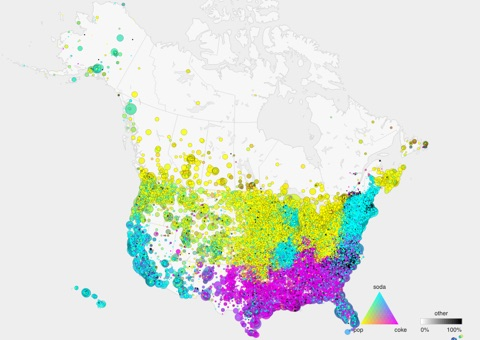
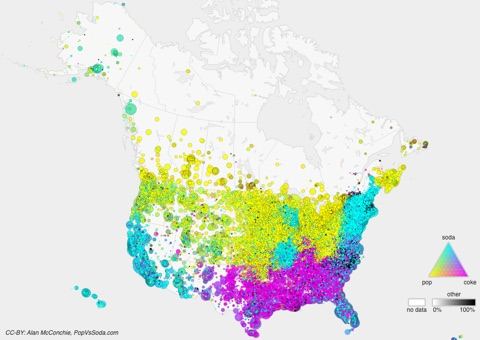
Mixed-color legend placed exactly like the choropleth's
The Voronoi, bubbles (mixed colors), ZIP circles and choropleth
experiment maps now draw the homepage choropleth's legend: the same
triangle, "no data" swatch and "other" ramp, at the same place and
size, as an overlay in map units (common.js: mixKeyHTML, showMixKey).
Thumbnails retaken.

Claude-Session: https://claude.ai/code/session_01JpWq1jKXNV9syim92nfxii

Changed region(s): [[0.75, 0.8235, 1.0, 1.0], [0.875, 0.6765, 1.0, 0.8529], [0.0, 0.9706, 0.25, 1.0]]

diff --git a/experiments/common.js b/experiments/common.js
@@ -327,25 +327,14 @@ window.PVS = (function () {
 		return { setRegion };
 	}
 
-	// Put the triangle legend in the bottom-right corner of a map (open water
-	// in every frame), or hide it.
-	function showMixKey(chart, show = true, opts) {
-		let el = chart.querySelector(".map-key");
-		if (!el) {
-			el = document.createElement("div");
-			el.className = "map-key";
-			el.innerHTML = mixKeyHTML(opts);
-			chart.append(el);
-		}
-		el.hidden = !show;
-	}
-
-	// Key for the mixed colors: the main map's triangle legend (soda at the
-	// top, pop bottom left, coke bottom right, blends in between), a ramp for
-	// how much "other" darkens a color, and optionally a "no data" swatch.
-	function mixKeyHTML({ noData = false } = {}) {
+	// The mixed-color legend, drawn exactly as on the homepage choropleth
+	// (js/map.js buildLegend): the triangle, the "no data" swatch and the
+	// "other" ramp in the bottom-right corner, laid out in the choropleth's
+	// 800 × 500 units and scaled into FRAME the same way. It's an overlay in
+	// map units, so it lines up with the choropleth when switching tabs.
+	function mixKeyHTML() {
 		const DIV = 10, side = 64, h = (side * Math.sqrt(3)) / 2;
-		const top = [42, 16];
+		const top = [748, 372];
 		const corner = { soda: top, pop: [top[0] - side / 2, top[1] + h], coke: [top[0] + side / 2, top[1] + h] };
 		const at = (i, j) => ({ soda: (DIV - i) / DIV, pop: (i - j) / DIV, coke: j / DIV });
 		const xy = (q) => ["soda", "pop", "coke"].reduce(
@@ -353,8 +342,7 @@ window.PVS = (function () {
 		const cell = (pts) => {
 			const c = { pop: 0, soda: 0, coke: 0, other: 0 };
 			for (const q of pts) for (const t of ["pop", "soda", "coke"]) c[t] += q[t] / 3;
-			const d = "M" + pts.map((q) => xy(q).map((v) => v.toFixed(1)).join(",")).join("L") + "Z";
-			return `<path d="${d}" fill="${mix(c)}" stroke="${mix(c)}" stroke-width="0.3"/>`;
+			return `<path d="M${pts.map((q) => xy(q).join(",")).join("L")}Z" fill="${mix(c)}"/>`;
 		};
 		let cells = "";
 		for (let i = 0; i < DIV; i++) {
@@ -363,31 +351,42 @@ window.PVS = (function () {
 				if (j < i) cells += cell([at(i, j), at(i, j + 1), at(i + 1, j + 1)]);
 			}
 		}
-		const base = top[1] + h;
-		const label = (x, y, text, anchor = "middle") =>
-			`<text x="${x}" y="${y}" text-anchor="${anchor}">${text}</text>`;
+		const text = (x, y, str, anchor = "middle") => `<text x="${x}" y="${y}" text-anchor="${anchor}">${str}</text>`;
+		const halo = (attrs) => `<${attrs} class="halo"/>`;
 
-		// "other" ramp, white to black, as on the main map.
-		const rx = 112, rw = 70, rh = 10, ry = base - rh, STEPS = 20;
+		const STEPS = 20, rampX = 722, rampY = 466, rampW = 70, rampH = 10;
 		let ramp = "";
 		for (let k = 0; k <= STEPS; k++) {
-			const o = k / STEPS;
-			ramp += `<rect x="${(rx + (k * rw) / (STEPS + 1)).toFixed(1)}" y="${ry}" width="${(rw / (STEPS + 1) + 0.5).toFixed(1)}" height="${rh}" fill="${d3.interpolateRgb("white", "black")(o)}"/>`;
+			ramp += `<rect x="${rampX + (k * rampW) / (STEPS + 1)}" y="${rampY}" width="${rampW / (STEPS + 1) + 0.5}" ` +
+				`height="${rampH}" fill="${d3.interpolateRgb("white", "black")(k / STEPS)}"/>`;
 		}
-		const nd = noData
-			? `<rect x="204" y="${ry}" width="26" height="${rh}" fill="#fff" stroke="#bbb" stroke-width="0.5"/>` + label(217, base + 13, "no data")
-			: "";
-		const width = noData ? 240 : 196;
-		const height = Math.ceil(base + 17);
-		// Sized like the main map's legend: 1.2 × these units in a FRAME-wide map.
-		return `<svg class="mix-key" viewBox="0 0 ${width} ${height}" ` +
-			`style="width:${((width * 1.2) / FRAME.width) * 100}%" role="img" ` +
-			`aria-label="Color key: yellow for pop, cyan for soda, magenta for coke, blended where answers are split, darker with more other answers">` +
-			`<g stroke="none">${cells}</g>` +
-			label(top[0], top[1] - 5, "soda") + label(corner.pop[0] - 4, base + 13, "pop") + label(corner.coke[0] + 4, base + 13, "coke") +
-			ramp + `<rect x="${rx}" y="${ry}" width="${rw}" height="${rh}" fill="none" stroke="#bbb" stroke-width="0.5"/>` +
-			label(rx + rw / 2, ry - 5, "other") + label(rx, base + 13, "0%", "start") + label(rx + rw, base + 13, "100%", "end") +
-			nd + "</svg>";
+
+		return `<svg class="mix-key" viewBox="0 0 ${FRAME.width} ${FRAME.height}" role="img" ` +
+			`aria-label="Color key: yellow for pop, cyan for soda, magenta for coke, blended where answers are split, ` +
+			`darker with more other answers, white for no data">` +
+			`<g transform="translate(0,40) scale(1.2)">` +
+			halo(`path d="M${[corner.soda, corner.pop, corner.coke].join("L")}Z"`) + cells +
+			text(corner.soda[0], corner.soda[1] - 6, "soda") +
+			text(corner.pop[0] - 4, corner.pop[1] + 13, "pop") + text(corner.coke[0] + 4, corner.coke[1] + 13, "coke") +
+			halo(`rect x="${rampX}" y="${rampY}" width="${rampW}" height="${rampH}"`) + ramp +
+			text(rampX, rampY + 21, "0%", "start") + text(rampX + rampW, rampY + 21, "100%", "end") +
+			text(rampX + rampW / 2, rampY - 5, "other") +
+			halo(`rect x="682" y="${rampY}" width="26" height="${rampH}"`) +
+			`<rect x="682" y="${rampY}" width="26" height="${rampH}" fill="#fff"/>` +
+			text(695, rampY + 21, "no data") +
+			"</g></svg>";
+	}
+
+	// Show the mixed-color legend on a map, or hide it.
+	function showMixKey(chart, show = true) {
+		let el = chart.querySelector(".map-key-frame");
+		if (!el) {
+			el = document.createElement("div");
+			el.className = "map-key-frame";
+			el.innerHTML = mixKeyHTML();
+			chart.append(el);
+		}
+		el.hidden = !show;
 	}
 
 	// Swelling state outlines for the bubble maps. Each state starts as its own

diff --git a/experiments/choropleth.html b/experiments/choropleth.html
@@ -4,8 +4,8 @@
 	<meta charset="utf-8">
 	<meta name="viewport" content="width=device-width, initial-scale=1">
 	<title>Pop vs Soda Choropleth</title>
-	<link href="../css/style.css?v=2026-11-23x" rel="stylesheet">
-	<link href="experiments.css?v=2026-11-23x" rel="stylesheet">
+	<link href="../css/style.css?v=2026-11-23y" rel="stylesheet">
+	<link href="experiments.css?v=2026-11-23y" rel="stylesheet">
 	<style>
 		.na-units path { stroke: #fff; stroke-width: 0.15px; }
 		.na-lines path { fill: none; pointer-events: none; }
@@ -16,8 +16,8 @@
 	</style>
 	<script src="../vendor/d3.v7.9.0.min.js" defer></script>
 	<script src="../vendor/topojson-client.v3.1.0.min.js" defer></script>
-	<script src="common.js?v=2026-11-23x" defer></script>
-	<script src="choropleth.js?v=2026-11-23x" defer></script>
+	<script src="common.js?v=2026-11-23y" defer></script>
+	<script src="choropleth.js?v=2026-11-23y" defer></script>
 </head>
 <body>
 	<nav class="nav">

diff --git a/experiments/isoglosses.html b/experiments/isoglosses.html
@@ -4,8 +4,8 @@
 	<meta charset="utf-8">
 	<meta name="viewport" content="width=device-width, initial-scale=1">
 	<title>Pop vs Soda Isoglosses</title>
-	<link href="../css/style.css?v=2026-11-23x" rel="stylesheet">
-	<link href="experiments.css?v=2026-11-23x" rel="stylesheet">
+	<link href="../css/style.css?v=2026-11-23y" rel="stylesheet">
+	<link href="experiments.css?v=2026-11-23y" rel="stylesheet">
 	<style>
 		.iso-band { mix-blend-mode: multiply; }
 		.iso-line { fill: none; stroke-linejoin: round; }
@@ -16,8 +16,8 @@
 	</style>
 	<script src="../vendor/d3.v7.9.0.min.js" defer></script>
 	<script src="../vendor/topojson-client.v3.1.0.min.js" defer></script>
-	<script src="common.js?v=2026-11-23x" defer></script>
-	<script src="isoglosses.js?v=2026-11-23x" defer></script>
+	<script src="common.js?v=2026-11-23y" defer></script>
+	<script src="isoglosses.js?v=2026-11-23y" defer></script>
 </head>
 <body>
 	<nav class="nav">

diff --git a/experiments/hex-bubbles.html b/experiments/hex-bubbles.html
@@ -4,12 +4,12 @@
 	<meta charset="utf-8">
 	<meta name="viewport" content="width=device-width, initial-scale=1">
 	<title>Pop vs Soda Hex Bubbles</title>
-	<link href="../css/style.css?v=2026-11-23x" rel="stylesheet">
-	<link href="experiments.css?v=2026-11-23x" rel="stylesheet">
+	<link href="../css/style.css?v=2026-11-23y" rel="stylesheet">
+	<link href="experiments.css?v=2026-11-23y" rel="stylesheet">
 	<script src="../vendor/d3.v7.9.0.min.js" defer></script>
 	<script src="../vendor/topojson-client.v3.1.0.min.js" defer></script>
-	<script src="common.js?v=2026-11-23x" defer></script>
-	<script src="hex-bubbles.js?v=2026-11-23x" defer></script>
+	<script src="common.js?v=2026-11-23y" defer></script>
+	<script src="hex-bubbles.js?v=2026-11-23y" defer></script>
 </head>
 <body>
 	<nav class="nav">

diff --git a/experiments/zip-circles.html b/experiments/zip-circles.html
@@ -4,12 +4,12 @@
 	<meta charset="utf-8">
 	<meta name="viewport" content="width=device-width, initial-scale=1">
 	<title>Pop vs Soda ZIP Circles</title>
-	<link href="../css/style.css?v=2026-11-23x" rel="stylesheet">
-	<link href="experiments.css?v=2026-11-23x" rel="stylesheet">
+	<link href="../css/style.css?v=2026-11-23y" rel="stylesheet">
+	<link href="experiments.css?v=2026-11-23y" rel="stylesheet">
 	<script src="../vendor/d3.v7.9.0.min.js" defer></script>
 	<script src="../vendor/topojson-client.v3.1.0.min.js" defer></script>
-	<script src="common.js?v=2026-11-23x" defer></script>
-	<script src="zip-circles.js?v=2026-11-23x" defer></script>
+	<script src="common.js?v=2026-11-23y" defer></script>
+	<script src="zip-circles.js?v=2026-11-23y" defer></script>
 </head>
 <body>
 	<nav class="nav">

diff --git a/experiments/bubbles.html b/experiments/bubbles.html
@@ -4,12 +4,12 @@
 	<meta charset="utf-8">
 	<meta name="viewport" content="width=device-width, initial-scale=1">
 	<title>Pop vs Soda Bubbles</title>
-	<link href="../css/style.css?v=2026-11-23x" rel="stylesheet">
-	<link href="experiments.css?v=2026-11-23x" rel="stylesheet">
+	<link href="../css/style.css?v=2026-11-23y" rel="stylesheet">
+	<link href="experiments.css?v=2026-11-23y" rel="stylesheet">
 	<script src="../vendor/d3.v7.9.0.min.js" defer></script>
 	<script src="../vendor/topojson-client.v3.1.0.min.js" defer></script>
-	<script src="common.js?v=2026-11-23x" defer></script>
-	<script src="bubbles.js?v=2026-11-23x" defer></script>
+	<script src="common.js?v=2026-11-23y" defer></script>
+	<script src="bubbles.js?v=2026-11-23y" defer></script>
 </head>
 <body>
 	<nav class="nav">

diff --git a/experiments/voronoi.html b/experiments/voronoi.html
@@ -4,12 +4,12 @@
 	<meta charset="utf-8">
 	<meta name="viewport" content="width=device-width, initial-scale=1">
 	<title>Pop vs Soda Voronoi</title>
-	<link href="../css/style.css?v=2026-11-23x" rel="stylesheet">
-	<link href="experiments.css?v=2026-11-23x" rel="stylesheet">
+	<link href="../css/style.css?v=2026-11-23y" rel="stylesheet">
+	<link href="experiments.css?v=2026-11-23y" rel="stylesheet">
 	<script src="../vendor/d3.v7.9.0.min.js" defer></script>
 	<script src="../vendor/topojson-client.v3.1.0.min.js" defer></script>
-	<script src="common.js?v=2026-11-23x" defer></script>
-	<script src="voronoi.js?v=2026-11-23x" defer></script>
+	<script src="common.js?v=2026-11-23y" defer></script>
+	<script src="voronoi.js?v=2026-11-23y" defer></script>
 </head>
 <body>
 	<nav class="nav">

diff --git a/experiments/donuts.html b/experiments/donuts.html
@@ -4,12 +4,12 @@
 	<meta charset="utf-8">
 	<meta name="viewport" content="width=device-width, initial-scale=1">
 	<title>Pop vs Soda Donuts</title>
-	<link href="../css/style.css?v=2026-11-23x" rel="stylesheet">
-	<link href="experiments.css?v=2026-11-23x" rel="stylesheet">
+	<link href="../css/style.css?v=2026-11-23y" rel="stylesheet">
+	<link href="experiments.css?v=2026-11-23y" rel="stylesheet">
 	<script src="../vendor/d3.v7.9.0.min.js" defer></script>
 	<script src="../vendor/topojson-client.v3.1.0.min.js" defer></script>
-	<script src="common.js?v=2026-11-23x" defer></script>
-	<script src="donuts.js?v=2026-11-23x" defer></script>
+	<script src="common.js?v=2026-11-23y" defer></script>
+	<script src="donuts.js?v=2026-11-23y" defer></script>
 </head>
 <body>
 	<nav class="nav">

diff --git a/experiments/experiments.css b/experiments/experiments.css
@@ -93,3 +93,11 @@ body { max-width: 1012px; }
 /* The credit line overlay (common.js: addCredit). */
 .chart svg.credit { position: absolute; inset: 0; width: 100%; height: auto; pointer-events: none; }
 .credit text { font-size: 12px; font-style: italic; fill: #333; }
+
+/* The mixed-color legend (common.js: showMixKey), an overlay in map units
+   styled like the homepage choropleth's legend. */
+.map-key-frame { position: absolute; inset: 0; pointer-events: none; }
+.map-key-frame[hidden] { display: none; }
+.map-key-frame svg { display: block; width: 100%; height: auto; }
+.mix-key text { font-size: 10px; fill: #333; }
+.mix-key .halo { fill: none; stroke: #ccc; stroke-width: 4px; stroke-linejoin: round; }

diff --git a/experiments/index.html b/experiments/index.html
@@ -4,8 +4,8 @@
 	<meta charset="utf-8">
 	<meta name="viewport" content="width=device-width, initial-scale=1">
 	<title>Pop vs Soda Experiments</title>
-	<link href="../css/style.css?v=2026-11-23x" rel="stylesheet">
-	<link href="experiments.css?v=2026-11-23x" rel="stylesheet">
+	<link href="../css/style.css?v=2026-11-23y" rel="stylesheet">
+	<link href="experiments.css?v=2026-11-23y" rel="stylesheet">
 	<style>
 		.experiments { list-style: none; padding: 0; margin-top: 12px; }
 		.experiments li {

diff --git a/experiments/choropleth.js b/experiments/choropleth.js
@@ -16,7 +16,7 @@
 	const statusEl = document.getElementById("status");
 	const minInput = document.getElementById("min");
 	const minValue = document.getElementById("min-value");
-	PVS.showMixKey(document.getElementById("chart"), true, { noData: true });
+	PVS.showMixKey(document.getElementById("chart"));
 	const regionInputs = document.querySelectorAll("input[name=region]");
 	const region = () => [...regionInputs].find((el) => el.checked).value;
 
